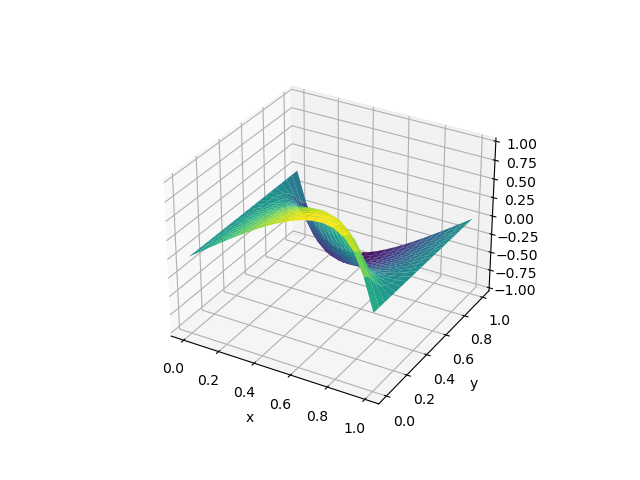
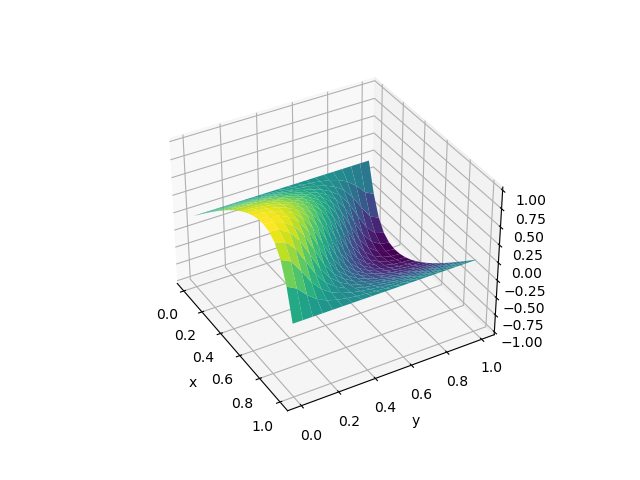
improved plots

Changed region(s): [[0.25, 0.1562, 0.8438, 0.9375], [0.75, 0.75, 0.7812, 0.7812]]

diff --git a/main.py b/main.py
@@ -46,7 +46,7 @@ def fp():
 
     kde = KernelDensity(kernel='epanechnikov', bandwidth=0.005).fit(xt_solutions)
 
-    fig, axs = plt.subplots(1, 2, sharex="all", sharey="all")
+    fig, axs = plt.subplots(1, 2, sharex="all", sharey="all", figsize=(10,10))
     axs = axs.flatten()
     norm = mpl.colors.Normalize(vmin=y_grid.min(), vmax=y_grid.max())
 
@@ -93,7 +93,10 @@ def burgers_2d(time=0.25):
 
     ax.set_xlabel("x")
     ax.set_ylabel("y")
-    plt.savefig(f"burgers_2d_t{time:.2f}.png")
+
+    ax.elev = 35
+    ax.azim = -30
+    plt.savefig(f"plots/burgers_2d_t{time:.2f}.png")
 
 
 def burgers_1d():
@@ -120,7 +123,7 @@ def burgers_1d():
     # plt.title("u(t, x)")
     # # plt.plot(X, sol)
     # plt.show()
-    fig, axs = plt.subplots(3, 1)
+    fig, axs = plt.subplots(1, 3, figsize=(15,5))
     axs = axs.flatten()
 
     # for t in [1e-5, .1, .5, 1., 2., 3.]:
@@ -135,14 +138,12 @@ def burgers_1d():
         # vel = -2*burger.mu *  diff / potential[:-1]
         axs[1].plot(X[:-1], diff, label=t)
         axs[2].plot(X, burger.calc_qmc_solution(X, np.ones(X.shape[0]) * t, power_num_qmc=15, power_num_splits=0),
-                    label=t)
+                    label=f"t={t:.1f}")
     axs[0].set_title("Potential")
     axs[1].set_title("Diff Theta")
     axs[2].set_title("Solution u")
     handles, labels = axs[-1].get_legend_handles_labels()
-    for ax in axs:
-        ax.legend()
-    plt.tight_layout()
+    fig.legend(handles, labels, loc='center right')
     plt.savefig("plots/burgers_1d.png")
 
 
@@ -214,7 +215,7 @@ if __name__ == "__main__":
     print("burgers1d")
     burgers_1d()
     print("burgers2d")
-    [burgers_2d(time) for time in [0., 0.25, 0.5, 0.75, ]]
+    [burgers_2d(time) for time in [0., 0.25, 0.5, 0.75, 1.]]
     print("fokkerplanck")
     fp()
     print("heat3d")

diff --git a/pde_datasets/modules/burgers.py b/pde_datasets/modules/burgers.py
@@ -5,7 +5,7 @@ import mpmath as mpm
 from itertools import repeat
 from scipy.stats import qmc
 from tqdm import trange
-
+import numpy as np
 from pde_datasets.modules.problem_base import TimeDependentProblem
 from pde_datasets.utils.domains import *
 from pde_datasets.utils import util
